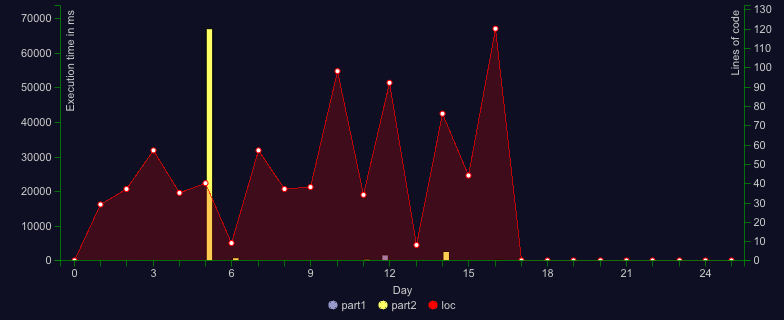
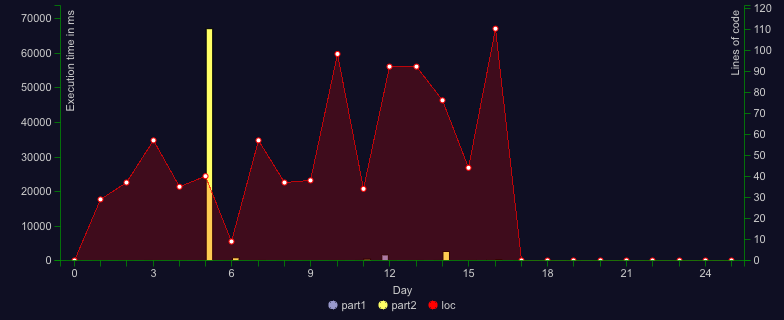
day 13: done

diff --git a/day-13/index.ts b/day-13/index.ts
@@ -1,0 +1,71 @@
+import { Examples, Solution } from '~types'
+import { range, take, transpose, zip } from 'ramda'
+
+export const parse = (input: string) => input.split('\n\n').map((grid) => grid.split('\n'))
+
+type Grid = string[]
+export const split = <T = any>(grid: T[], at: number, count: number) => [
+  take(count)(grid.slice(at + 1 - count)),
+  take(count)(grid.slice(at + 1)),
+]
+export const countDifferences = <T extends string>(top: T[], bottom: T[]) =>
+  zip(
+    top.flatMap((line) => line.split('')),
+    bottom.reverse().flatMap((line) => line.split('')),
+  )
+    .map(([a, b]) => +(a !== b))
+    .reduce((acc, n) => acc + n)
+const findReflection = (grid: Grid, smudges: number) => {
+  const h = grid.length
+
+  for (const i of range(0, h - 1)) {
+    const count = Math.min(i + 1, h - i - 1)
+    const [top, bottom] = split(grid, i, count)
+
+    if (countDifferences(top, bottom) === smudges) {
+      return i
+    }
+  }
+
+  return -1
+}
+const rotate = (grid: Grid) =>
+  transpose(grid.map((line) => line.split(''))).map((row) => row.join(''))
+
+const solveOne = (grid: Grid, smudges: number) => {
+  let i = findReflection(grid, smudges)
+  if (i !== -1) {
+    return (i + 1) * 100
+  }
+  return 1 + findReflection(rotate(grid), smudges)
+}
+const solve = (smudges: number) => (input: ReturnType<typeof parse>) =>
+  input.map((grid) => solveOne(grid, smudges)).reduce((acc, n) => acc + n)
+
+export const p1: Solution<typeof parse> = solve(0)
+export const p2: Solution<typeof parse> = solve(1)
+
+export const p1ex: Examples = [
+  {
+    expected: 405,
+    input: `
+      #.##..##.
+      ..#.##.#.
+      ##......#
+      ##......#
+      ..#.##.#.
+      ..##..##.
+      #.#.##.#.
+      
+      #...##..#
+      #....#..#
+      ..##..###
+      #####.##.
+      #####.##.
+      ..##..###
+      #....#..# 
+    `,
+  },
+]
+
+export const p2ex: Examples = [{ expected: 400, input: p1ex[0].input }]

diff --git a/README.md b/README.md
@@ -23,7 +23,7 @@
 [![Day](https://badgen.net/badge/10/%E2%98%85%E2%98%85/green)](day-10/index.ts)
 [![Day](https://badgen.net/badge/11/%E2%98%85%E2%98%85/green)](day-11/index.ts)
 [![Day](https://badgen.net/badge/12/%E2%98%85%E2%98%86/yellow)](day-12/index.ts)
-![Day](https://badgen.net/badge/13/%E2%98%86%E2%98%86/gray)
+[![Day](https://badgen.net/badge/13/%E2%98%85%E2%98%85/green)](day-13/index.ts)
 [![Day](https://badgen.net/badge/14/%E2%98%85%E2%98%85/green)](day-14/index.ts)
 [![Day](https://badgen.net/badge/15/%E2%98%85%E2%98%85/green)](day-15/index.ts)
 [![Day](https://badgen.net/badge/16/%E2%98%85%E2%98%85/green)](day-16/index.ts)
@@ -131,9 +131,9 @@ Both parts: 1615.9 ms
 
 ```
 Day 13
-Time part 1: -
-Time part 2: -
-Both parts: -
+Time part 1: 2.19 ms
+Time part 2: 14.62 ms
+Both parts: 16.81 ms
 ```
 
 ```
@@ -221,8 +221,8 @@ Both parts: -
 ```
 
 ```
-Total stars: 29/50
-Total time: 72939.19 ms
+Total stars: 31/50
+Total time: 72956 ms
 ```
 
 <!--/RESULTS-->
